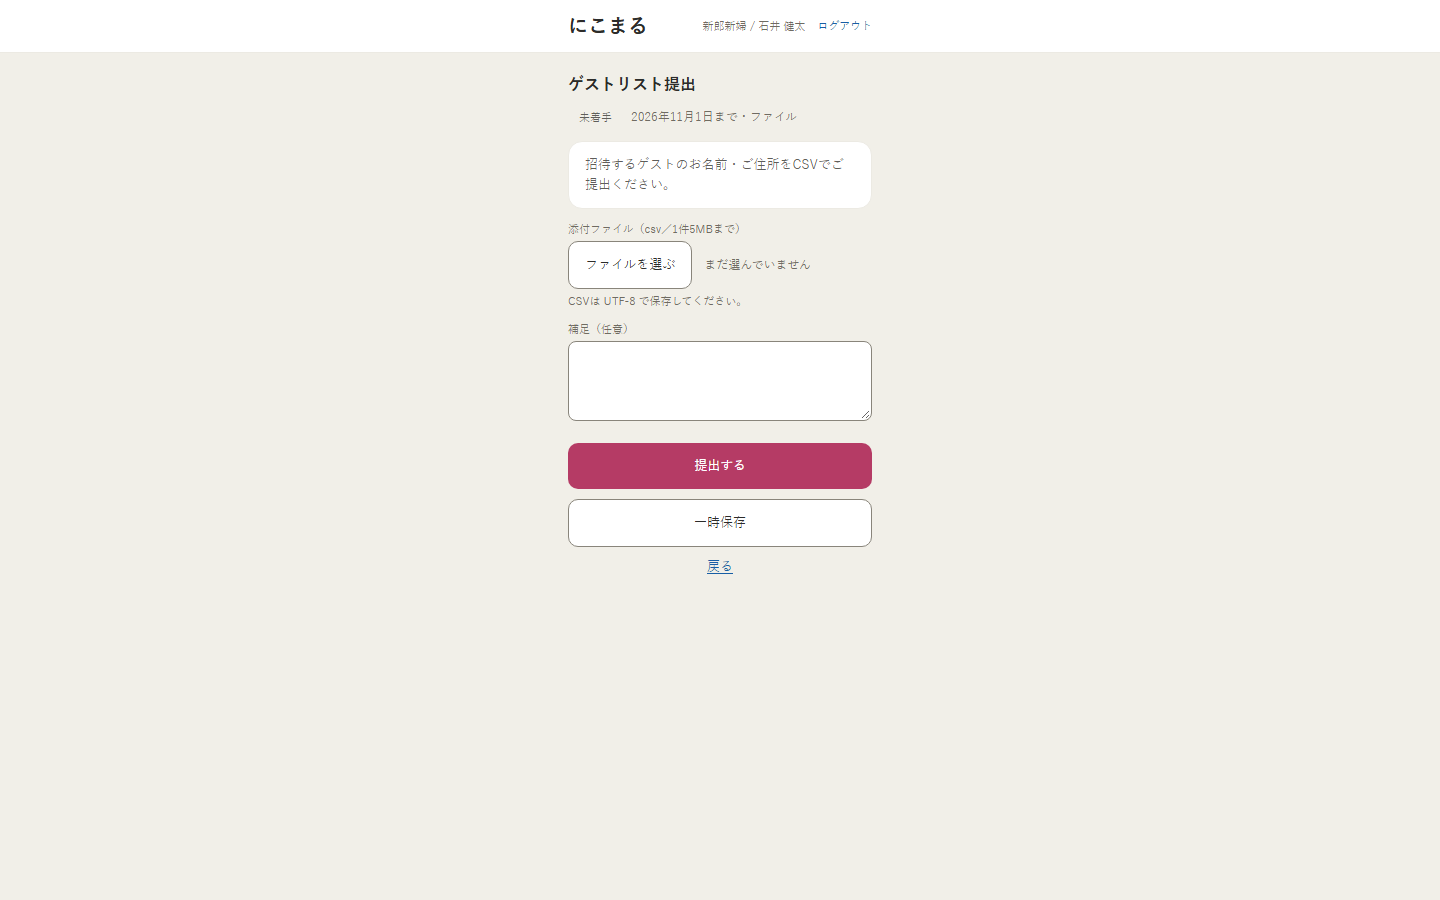
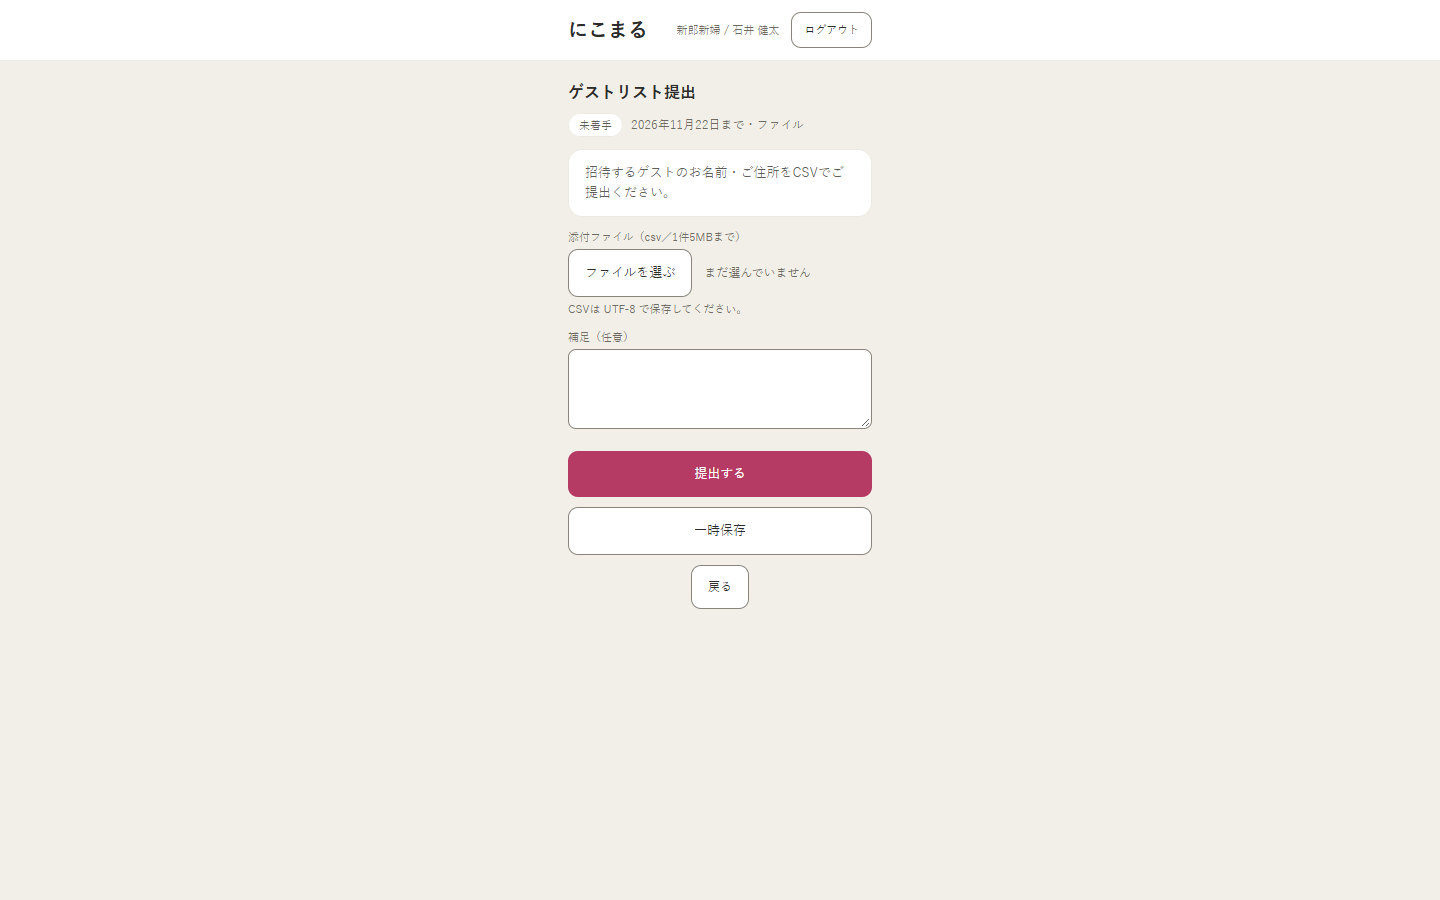
スクリーンショットと撮影手順を現行のD1デモに合わせる (#210)
撮影スクリプトを npm run demo（D1・ポート3105）向けに作り直し、デモのログイン操作で撮る。
ログイン画面を6桁コード方式で撮り直し、席次（31 新郎新婦のエディタ・32 卓の配置パターン）を追加した。

diff --git a/docs/screenshots/README.md b/docs/screenshots/README.md
@@ -1,28 +1,35 @@
 # 画面のスクリーンショット
 
-にこまるの主要画面を撮って残したものです（Issue #28）。発表資料・README・式場への説明に使います。
+にこまるの主要画面を撮って残したものです（Issue #28・#210）。発表資料・README・式場への説明に使います。
 すべて模擬データ（架空の人名・`.test` ドメインのメールアドレス）で撮影しています。
 
 ## 撮り直し方
 
-前提: Docker Desktop が動いていて、`.env.local` が用意されていること。
+前提は `npm install` 済みであることだけです。Docker・Supabase・`.env.local` は要りません。
+
+1つ目のターミナルで、デモを最初の状態から起動します（http://127.0.0.1:3105 で待ち受けます）。
 
 ```bash
-npx supabase start
-npm run demo:reset -- --login-links
-npm run dev
+npm run demo -- --reset
 ```
 
-別のターミナルで撮影します。
+「デモの準備完了」と出たら、2つ目のターミナルで撮影します。
 
 ```bash
 npm run screenshots
 ```
 
-`npm run screenshots` は `scripts/screenshots.mts` を実行します。何度実行しても同じ画面を同じファイル名で撮り直せます。
+`npm run screenshots` は `scripts/screenshots.mts` を実行し、このフォルダの画像を同じファイル名で上書きします。
 
-- プランナーは `planner@nicomaru.test` でパスワードログインします。
-- 新郎新婦は `demo-02-groom@demo.nicomaru.test` でログインします。メール欄にアドレスを入れ、Mailpit（http://127.0.0.1:54324）に届いた6桁のコードを入力します。
+- ログインはデモのログイン画面と同じ操作です（入力は空欄のまま）。「確認コードを送信」で新郎新婦（demo-02 の石井さま）、「パスワードでログイン」でプランナーとして入ります。パスワードやコードはスクリプトに書いていません。
+- 席次の画面に写すものが無いと空の案内だけになるため、配置パターンが1つも無ければ、スクリプトがプランナーの画面操作で1つ作って新郎新婦に送ります。デモのデータが変わるので、撮り直す前は毎回 `--reset` 付きでデモを起動し直してください。
+- Playwright のブラウザ（`npx playwright install`）を入れていない場合は、手元の Chrome か Edge を指定して撮れます。
+
+  ```bash
+  PLAYWRIGHT_CHROMIUM_EXECUTABLE_PATH="C:/Program Files/Google/Chrome/Application/chrome.exe" npm run screenshots
+  ```
+
+- デモ以外のサーバーを撮るときは `SCREENSHOT_BASE_URL` に URL を入れます（ログイン画面にデモのログインがある環境に限ります）。
 
 ## 撮影の仕様
 
@@ -30,25 +37,27 @@ npm run screenshots
 | --- | --- | --- |
 | PC | 1440×900 | 画面全体（長いページは下までスクロールして全部）。新郎新婦の下部ナビは隠す |
 | スマホ | 390px（iPhone 13） | 1画面ぶん。下部ナビは見えたまま |
+| 部分 | 1440×900 | 案件詳細の中のセクションだけを切り出す（32） |
 
 - Next.js の開発用バッジ（左下の N）は、どの画像にも写らないように隠しています。
-- アプリの URL は `.env.local` の `APP_BASE_URL` に合わせます（送信元の検証があるため、`127.0.0.1` と `localhost` を混ぜると 403 になります）。
+- ログイン画面には、デモであることの案内（「デモ版です。入力は空欄のままで…」）が写ります。
 
 ## 注意
 
-- AI 補助のパネルは、ローカル LLM が起動していないと「ただいまAI補助を利用できません」と表示されます。そのときの画面を撮っています。
-- 新しい画面を足すときは、既存の番号（01〜30）を変えず、31 以降に続けてください。
+- AI 補助のパネルは、AI ワーカーが動いていないと「ただいまAI補助を利用できません」と表示されます。デモではそのときの画面を撮っています。
+- 新しい画面を足すときは、既存の番号（01〜32）を変えず、33 以降に続けてください。
+- プランナー側の「席次の確認」は、新郎新婦が席次を提出してから中身が出ます。デモの案件にはまだ出席のゲストがいないため提出できず、撮っていません（撮るときは 33 番にします）。
 
 ## 一覧
 
 | 番号 | PC（1440px） | スマホ（390px） |
 | --- | --- | --- |
-| 01 | ログイン | 11 ログイン |
+| 01 | ログイン（6桁の確認コード方式） | 11 ログイン |
 | 02 | プランナーのダッシュボード | 14 プランナーのダッシュボード |
 | 03 | 案件一覧 | 21 案件一覧 |
 | 04 | 案件詳細 | 15 案件詳細 |
 | 05 | 提出物一覧 | 22 提出物一覧 |
-| 06 | 提出物確認（AI 補助あり） | 23 提出物確認（AI 補助あり） |
+| 06 | 提出物確認 | 23 提出物確認 |
 | 07 | 打ち合わせ前準備シート | 24 打ち合わせ前準備シート |
 | 08 | 新郎新婦のマイページ | 12 新郎新婦のマイページ |
 | 09 | 宿題一覧 | 13 宿題一覧 |
@@ -58,3 +67,5 @@ npm run screenshots
 | 18 | 準備タイムライン | 28 準備タイムライン |
 | 19 | 挙式情報 | 29 挙式情報 |
 | 20 | アカウント | 30 アカウント |
+| 31 | 席次エディタ（新郎新婦） | — |
+| 32 | 卓の配置パターン（プランナー・案件詳細の一部） | — |
